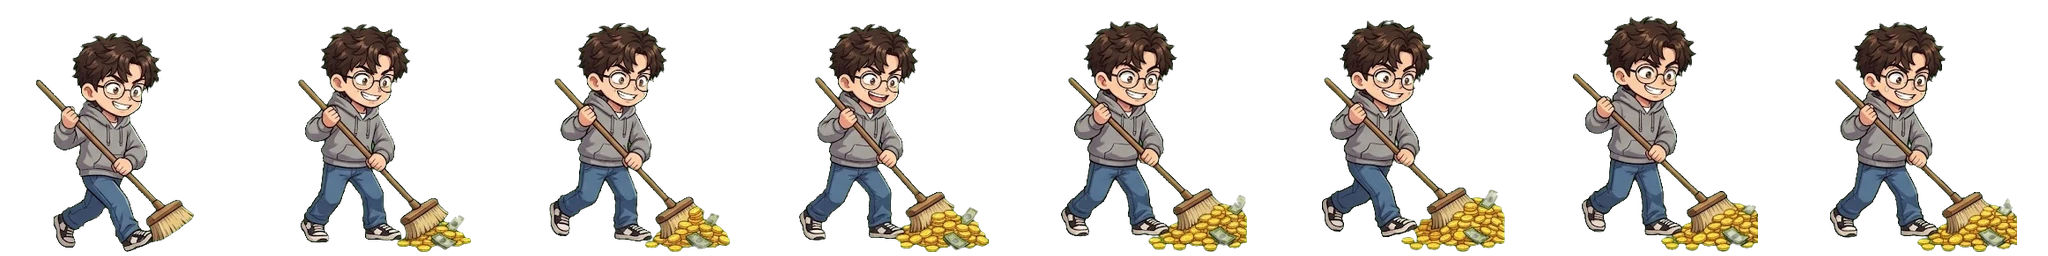
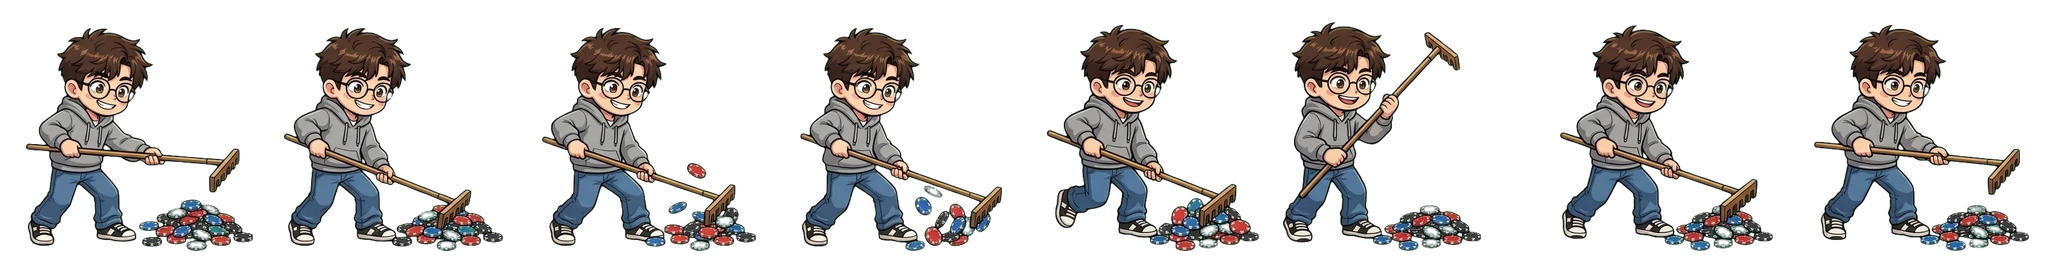
랑방대전 그림: 성준영 배팅 칩 긁어모으기 · 토하는 인간 웩 동작
- 성준영 쓸기 8칸 새로 (Gemini): 빗자루로 돈 → 갈퀴로 배팅 칩 긁어모으기
  둘레에서 굴러오는 동전·지폐 → 빨강·파랑·초록·검정 칩 · 쓸기 입자도 칩 색
  문구 돈 → 칩 (공격 설명 · 외침 · 도감 한 줄)
- 토하는 인간 e_vomit_puke.webp 8칸 새로 (Gemini): 숙이고 꿀렁 → 쏟기 → 입 닦기
  토하기 0.45초 전부터 0~2칸, 토한 뒤 3~7칸 (ENEMY_ANIM.vomit.puke · render 한 갈래)
  입에서 멤버 발밑까지 토 덩어리 포물선 · 떨어지면 철퍽
  토 웅덩이: 동그라미 하나 → 울퉁불퉁한 덩어리 · 테두리 · 번들거림 · 건더기 · 보글

diff --git a/public/langbang/render.js b/public/langbang/render.js
@@ -259,6 +259,7 @@ export class FX {
 
 // ─── 렌더러 ───────────────────────────────────────────
 const PAINTED = { crownIco: 'pCrown', bottle: 'pBottle', bottleRage: 'pBottleRage' };
+const JY_CHIPS = ['#e53935', '#1e6fe0', '#2e9e4a', '#222', '#f2b01e', '#8e44ad']; // 성준영 배팅 칩 색
 const PAINTED_MORE = ['bullet', 'cane', 'wink', 'swear', 'swearBig', 'notice', 'noticeBig', 'flower', 'rose', 'chip', 'card', 'tick', 'dumbbell', 'snack', 'hammer', 'note', 'heartBomb', 'duck', 'paper', 'gem', 'mosaic'];
 for (const n of PAINTED_MORE) PAINTED[n] = 'p_' + n; // 그린 투사체: fx/p_<이름>.webp (없으면 코드로 그린 것)
 export class Renderer {
@@ -310,7 +311,7 @@ export class Renderer {
     list.vfx_winkring = '/img/lb/fx/vfx_winkring.webp'; list.hanna_back = '/img/lb/h_hanna_back.webp'; // 이한나 데스 윙크
     list.hanim_youngjun_rest = '/img/lb/h_youngjun_rest.webp'; // 김영준 숨 고르기 (크로스핏 8칸 · 있으면)
     list.hanim_baul_ride = '/img/lb/h_baul_ride.webp'; list.hanim_baul_fix = '/img/lb/h_baul_fix.webp'; // 송바울 보드 타기 · 보드 정비 (8칸 반복)
-    list.hanim_junyoung_sweep = '/img/lb/h_junyoung_sweep.webp'; // 성준영 빗자루로 돈 쓸어 모으기 (8칸 반복)
+    list.hanim_junyoung_sweep = '/img/lb/h_junyoung_sweep.webp'; // 성준영 칩 갈퀴로 배팅 칩 긁어모으기 (8칸 반복)
     list.js_back = '/img/lb/h_jeongseob_back.webp'; list.js_walk = '/img/lb/h_jeongseob_walkfront.webp'; list.js_walkb = '/img/lb/h_jeongseob_walkback.webp'; list.js_rest = '/img/lb/h_jeongseob_rest.webp'; // 윤정섭 걷기 · 쉬기
     for (const id in HERO_ANIM_FORM) list['hanim_' + id + '_f'] = HERO_ANIM_FORM[id].src; // 변신 모습 띠
     for (const n of PROJ_ART_NAMES) list['w_' + n] = `/img/lb/fx/w_${n}.webp`; // 투사체 그림 (없으면 코드 모양)
@@ -1110,11 +1111,15 @@ export class Renderer {
     for (const q of g.puddles || []) {
       const a = Math.min(1, q.t / 0.5);
       this.tf(q.x, q.y, 0, 1, 0.35);
-      cx.globalAlpha = 0.55 * a;
-      cx.fillStyle = q.enemy ? '#b8d64a' : '#9acd32';
-      cx.beginPath(); cx.arc(0, 0, q.r, 0, TAU); cx.fill();
-      cx.globalAlpha = 0.6 * a; cx.fillStyle = '#e8ff9a';
-      for (let i = 0; i < 4; i++) { cx.beginPath(); cx.arc(Math.cos(i * 1.7 + q.x) * q.r * 0.5, Math.sin(i * 2.3) * q.r * 0.5, 4 + (i % 2) * 3, 0, TAU); cx.fill(); }
+      // 토 웅덩이: 울퉁불퉁한 덩어리 · 진한 테두리 · 번들거림 · 건더기 · 가끔 보글
+      const sd = q.x * 0.37 + q.r, grow = Math.min(1, (q.max - q.t) / 0.25 + 0.4), R0 = q.r * grow;
+      const lobes = (k) => { cx.beginPath(); cx.arc(0, 0, R0 * 0.72 * k, 0, TAU); for (let i = 0; i < 6; i++) { const an = i * 1.05 + sd, d = R0 * (0.42 + 0.14 * Math.sin(sd * 3 + i * 2.1)); cx.moveTo(Math.cos(an) * d + R0 * 0.38 * k, Math.sin(an) * d); cx.arc(Math.cos(an) * d, Math.sin(an) * d, R0 * 0.38 * k, 0, TAU); } };
+      cx.globalAlpha = 0.75 * a; cx.fillStyle = q.enemy ? '#7f9a22' : '#6f8f1c'; lobes(1.08); cx.fill();
+      cx.fillStyle = q.enemy ? '#c9d84a' : '#b5cf3a'; lobes(0.96); cx.fill();
+      cx.globalAlpha = 0.5 * a; cx.fillStyle = '#eef79a'; cx.beginPath(); cx.ellipse(-R0 * 0.2, -R0 * 0.22, R0 * 0.32, R0 * 0.14, -0.3, 0, TAU); cx.fill();
+      cx.globalAlpha = 0.8 * a; cx.fillStyle = '#e6b84a';
+      for (let i = 0; i < 5; i++) { cx.beginPath(); cx.arc(Math.cos(i * 2.4 + sd) * R0 * 0.45, Math.sin(i * 1.9 + sd) * R0 * 0.4, 2.5 + (i % 2) * 1.5, 0, TAU); cx.fill(); }
+      const bt = (t * 1.3 + sd) % 1; cx.globalAlpha = 0.7 * a * (1 - bt); cx.strokeStyle = '#f4ffb0'; cx.lineWidth = 1.5; cx.beginPath(); cx.arc(Math.cos(sd) * R0 * 0.3, Math.sin(sd * 2) * R0 * 0.3, 2 + bt * 5, 0, TAU); cx.stroke();
       cx.globalAlpha = 1;
     }
     // 찌질남: 달라붙은 멤버와 하트 끈
@@ -1695,12 +1700,24 @@ export class Renderer {
         const img = e.flash > 0 ? sp.f : g.hell || g.tower ? this.hellSprite(sp) : sp.c; // 헬 · 진상의 탑: 붉은 빛을 미리 구운 그림 (그리기 1번)
         const hid = e.def.traits && e.def.traits.stealth && !e.unveiled;
         if (hid) cx.globalAlpha = 0.22 + Math.sin(t * 5 + e.phase) * 0.06; // 은신: 흐릿하게
+        const pk = def.puke && !e.flash && key === 'e_' + e.type && ENEMY_ANIM[e.type] && ENEMY_ANIM[e.type].puke, pstrip = pk && this.images[`anim_${e.type}_puke`]; // 토하는 인간: 웩 동작 띠 (구부림 → 쏟음 → 입 닦기)
+        let pfi = -1;
+        if (pstrip && imgOk(pstrip)) {
+          const lead = pk.lead || 0.4, rel = pk.release || 3, after = (def.puke.every - e.pukeT) * (pk.fps || 10);
+          if (e.pukeT < lead && e.y > g.ropeY - def.puke.reach && g.heroes.length) pfi = Math.min(rel - 1, Math.floor((1 - e.pukeT / lead) * rel)); // 토하기 직전: 몸을 숙이고 꿀렁
+          else if (after >= 0 && after < (pk.frames || 8) - rel) pfi = rel + Math.floor(after); // 쏟은 뒤: 웩 → 입 닦기
+        }
         const aa = e.atRope && !e.flash && key === 'e_' + e.type && ENEMY_ANIM[e.type] && ENEMY_ANIM[e.type].attack; // 입구 공격 프레임 띠 (있으면)
         const astrip = aa && this.images[`anim_${e.type}_attack`];
         const an = moving && !e.flash && key === 'e_' + e.type && ENEMY_ANIM[e.type] && ENEMY_ANIM[e.type].walk; // 보스 기술·분노 그림이 뜨는 동안은 그 그림
         const strip = an && this.images[`anim_${e.type}_walk`];
         if (e.brkT > 0 && !(e.flash > 0)) cx.drawImage(this.mosaicSprite(sp), -box / 2, -box * FEET, box, box); // 여지원 「모자이크」: 몸 전체를 큰 네모로 깨뜨린 그림 (한 번 구워 두고 재사용 · 띠 대신)
-        else if (astrip && imgOk(astrip)) {
+        else if (pfi >= 0) {
+          const fh = pstrip.naturalHeight, n = pk.frames || 8, fw = pstrip.naturalWidth / n;
+          const idle = this.sprites['e_' + e.type], fit = idle && idle.c ? this.stripFit('ep_' + e.type, pstrip, n, idle.c, 1) : { k: 1, dx: 0, dy: 0 };
+          this.tf(e.x, feet, 0, 1, 1);
+          cx.drawImage(pstrip, pfi * fw, 0, fw, fh, -box / 2 + fit.dx * box, -box * FEET + fit.dy * box, box * fit.k, box * fit.k);
+        } else if (astrip && imgOk(astrip)) {
           const fh = astrip.naturalHeight, n = aa.frames || Math.max(1, Math.round(astrip.naturalWidth / fh)), fw = astrip.naturalWidth / n, rel = Math.min(n - 1, aa.release || 3);
           const fi = e.hitT > 0 ? Math.min(n - 1, rel + Math.floor((1 - e.hitT / 0.25) * (n - rel))) : e.atkCd > 0 && e.atkCd < 0.3 ? Math.floor((1 - e.atkCd / 0.3) * rel) : 0;
           const idle = this.sprites['e_' + e.type], fit = idle && idle.c ? this.stripFit('ea_' + e.type, astrip, n, idle.c, 1) : { k: 1, dx: 0, dy: 0 };
@@ -2460,7 +2477,7 @@ export class Renderer {
     for (let k = 0; k < maxUse; k++) { cx.fillStyle = k < left ? '#7ad0ff' : 'rgba(0,0,0,0.5)'; cx.fillRect(hx - tw / 2 + k * (w0 + gap), feet + 19, w0, 3); }
     return true;
   }
-  // 성준영: 빗자루로 바닥의 돈을 쓸어 모으며 돌아다닌다 — 끌어모으는 반경 고리 · 빗자루 쪽으로 미끄러져 들어오는 동전
+  // 성준영: 칩 갈퀴로 바닥의 배팅 칩을 긁어모으며 돌아다닌다 — 끌어모으는 반경 고리 · 갈퀴 쪽으로 굴러 들어오는 칩
   drawJunyoung(g, h, hx, feet, box, sp, t) {
     const cx = this.cx, im = this.images.hanim_junyoung_sweep, S0 = h.def.sweep;
     const R0 = S0.r[h.lv - 1] * (h.allinT > 0 ? S0.allinR : 1) * (g.saJy ? 1.2 : 1), gold = h.allinT > 0;
@@ -2468,18 +2485,26 @@ export class Renderer {
     cx.setLineDash([7, 7]); cx.lineDashOffset = t * 24; cx.strokeStyle = gold ? 'rgba(255,210,63,0.75)' : 'rgba(190,140,255,0.45)'; cx.lineWidth = gold ? 4 : 2.5;
     cx.beginPath(); cx.arc(0, 0, R0, 0, Math.PI * 2); cx.stroke(); cx.setLineDash([]); cx.restore();
     const face = h.face || 1, sk = this.skfx;
-    if (sk) { // 동전 · 지폐가 둘레에서 빗자루 앞으로 쓸려 들어온다
+    if (sk) { // 빨강 · 파랑 · 초록 · 검정 배팅 칩이 둘레에서 갈퀴 앞으로 쓸려 들어온다
       this.world();
       for (let k = 0; k < 6; k++) {
         const ph = (t * 0.9 + k / 6) % 1, a = k * 1.9 + Math.floor(t * 0.9 + k / 6) * 2.3, r = 46 * (1 - ph) + 8;
         const x = hx + face * 16 + Math.cos(a) * r, y = feet - 2 + Math.sin(a) * r * 0.35;
-        if (k % 3 === 2) sk.bill(x, y, t * 4 + k, a, (1 - ph) * 0.9); else sk.coin(x, y, 3.4, t * 7 + k, 0.35 + (1 - ph) * 0.65);
+        this.pokerChip(x, y, 3.6, t * 7 + k, 0.35 + (1 - ph) * 0.65, JY_CHIPS[k % JY_CHIPS.length]);
       }
     }
     if (!imgOk(im)) return false;
     const fi = Math.floor(t * 9) % 8, hop = Math.abs(Math.sin(t * 9 * Math.PI / 4)) * 1.5;
     this.loopStrip(im, fi, hx, feet - hop, face, box * 1.05);
     return true;
+  }
+  pokerChip(x, y, r, ph, a, col) { // 배팅 칩 한 개 (뒤집히며 굴러 들어온다)
+    const cx = this.cx, w = Math.abs(Math.cos(ph)) * r + 0.8;
+    cx.save(); cx.translate(x, y); cx.globalAlpha = Math.max(0, Math.min(1, a));
+    cx.fillStyle = 'rgba(0,0,0,0.45)'; cx.beginPath(); cx.ellipse(0, 1.2, w, r, 0, 0, Math.PI * 2); cx.fill();
+    cx.fillStyle = col; cx.beginPath(); cx.ellipse(0, 0, w, r, 0, 0, Math.PI * 2); cx.fill();
+    if (w > r * 0.45) { cx.strokeStyle = '#fff'; cx.lineWidth = 1.1; cx.setLineDash([1.6, 1.4]); cx.beginPath(); cx.ellipse(0, 0, w * 0.72, r * 0.72, 0, 0, Math.PI * 2); cx.stroke(); cx.setLineDash([]); cx.fillStyle = 'rgba(255,255,255,0.85)'; cx.beginPath(); cx.ellipse(0, 0, w * 0.32, r * 0.32, 0, 0, Math.PI * 2); cx.fill(); }
+    cx.restore();
   }
   // 정소영 잔소리: 말풍선이 준영에게 날아가 체력을 채운다 (game.js 'nag')
   nagFly(x0, y0, x1, y1) { (this._nag || (this._nag = [])).push({ x0, y0, x1, y1, at: performance.now() }); }

diff --git a/public/langbang/game.js b/public/langbang/game.js
@@ -704,7 +704,7 @@ function handleEvents(g, loud) {
         break;
       }
       case 'jyGrab': if (!busy && Math.random() < 0.6) R.vfx('pullLine', e.x, e.y, { anim: 'streak', dur: 380, tx: e.jx, ty: e.jy - 20, col: '#c07bff' }); break;
-      case 'jySweep': if (!busy) { fx.burst(e.x + (e.face || 1) * 18, e.y + 18, 3, '#ffd23f', 70, 'coin', 6, 0.5); if (Math.random() < 0.08) fx.text(e.x, e.y - 72, ['이거 다 내 돈!', '쓸어 담자~', '하나도 안 흘린다'][(Math.random() * 3) | 0], '#ffe27a', 11, 0.9); } break;
+      case 'jySweep': if (!busy) { for (const c of ['#e53935', '#1e6fe0', '#2e9e4a']) fx.burst(e.x + (e.face || 1) * 18, e.y + 18, 1, c, 70, 'dot', 4, 0.5); if (Math.random() < 0.08) fx.text(e.x, e.y - 72, ['이거 다 내 칩!', '칩 긁어 담자~', '한 칩도 안 흘린다'][(Math.random() * 3) | 0], '#ffe27a', 11, 0.9); } break;
       case 'boardDash': if (loud) A.sfx.whoosh(); if (!busy) fx.burst(e.x, e.y + 18, 6, 'rgba(220,240,255,0.9)', 120, 'puff', 6, 0.35); if (e.aimed && !busy) fx.ring(e.tx, e.ty, 6, 26, 0.3, '#7ad0ff', 2); if (e.left === 1) fx.text(e.x, e.y - 74, '보드가 삐걱…', '#ffd9a0', 11, 0.9); break;
       case 'boardCombo': if (!busy) fx.text(e.x, e.y - 70, `${e.n}명 쓸었다!`, '#7ad0ff', 13, 0.9); break;
       case 'boardBroke': fx.text(e.x, e.y - 74, '보드 정비하러 간다~', '#ffd9a0', 12, 1.0); fx.burst(e.x, e.y + 10, 6, '#c8ccd8', 90, 'shard', 4, 0.5); break;
@@ -1110,7 +1110,11 @@ function handleEvents(g, loud) {
       case 'lightsOn': fx.flash('#fff8d0', 0.25); break;
       case 'megaphone': fx.text(180, g.H * 0.26, '인피 확성기! 진상 가속', '#ff8a8a', 17, 1.2, -10); break;
       case 'puke':
-        if (e.cry) { fx.text(e.x, e.y, '엉엉…', '#9fd8ff', 13, 0.9, -20); break; } fx.text(e.x, e.y, '우웩!', '#b8e04a', 16, 0.9); fx.burst(e.hx, g.rowY + 18, 10, '#9acd32', 120, 'dot', 5, 0.5, 200); break;
+        if (e.cry) { fx.text(e.x, e.y, '엉엉…', '#9fd8ff', 13, 0.9, -20); break; } fx.text(e.x, e.y - 14, '우웩!', '#b8e04a', 16, 0.9); { // 입에서 멤버 발밑까지 토 덩어리가 포물선으로 날아가 철퍽
+          const T = 0.42, G = 900, ty = g.rowY + 18;
+          for (let i = 0; i < 9; i++) { const t0 = T * (0.85 + Math.random() * 0.3), dx = (Math.random() - 0.5) * 30; fx.part('dot', e.x + (Math.random() - 0.5) * 6, e.y + 8, (e.hx + dx - e.x) / t0, (ty - e.y - 8) / t0 - 0.5 * G * t0, t0, 4 + Math.random() * 4, i % 3 ? '#c9d84a' : '#9acd32', { grav: G }); }
+          setTimeout(() => { fx.burst(e.hx, ty, 12, '#c9d84a', 140, 'dot', 5, 0.5, 260); fx.burst(e.hx, ty, 6, '#e8f07a', 90, 'dot', 3, 0.4, 200); }, T * 1000);
+        } break;
       case 'cuddle': fx.text(e.x, e.y, '꽁냥꽁냥♡', '#ffb0d0', 12, 0.8); fx.part('heart', e.x, e.y, 0, -40, 0.8, 9, null); break;
       case 'breakup': fx.text(e.x, e.y, '헤어져!!', '#ff7fa8', 18, 1.1, -20); fx.burst(e.x, e.y + 20, 12, '#ff9ecb', 160, 'shard', 5, 0.6, 300); break;
       case 'grab': { fx.text(e.hx, e.hy - 70, '붙잡힘!', '#ffc08a', 15, 1); R.vfx('slap', e.hx, e.hy - 30, { anim: 'pop', dur: 380, sz: 70 }); const hh = g.heroes.find((x) => Math.abs(x.x - e.hx) < 2 && Math.abs(x.y - e.hy) < 2); if (hh) hh._hitAt = performance.now(); if (loud) A.sfx.charm(); break; }
@@ -1756,7 +1760,7 @@ function placeBubble(x, y) {
 }
 // 필드 멤버 정보 카드: 지금 능력치 · 공격 방식 · 레벨 효과 · 버프/디버프 (열려 있는 동안 게임 50% 속도)
 const PROJ_TXT = {
-  order: '콕 집는 지시 (맞은 진상 「지목」: 모두에게 더 아프게)', glow: '응원봉 부메랑 (관통 · 돌아오며 한 번 더)', board: '보드 돌진 (탭한 곳으로 · 길 위 전부 · 몇 번 타면 정비)', nag: '잔소리 (피해 없음 · 성준영 체력 · 부르기 게이지)', sweep: '빗자루질 (주변 진상 끌어모아 붙잡기 · 피해 조금)', warn: '유도탄 (감속 · 경고 누적)', bullet: '직선 저격 (자기 줄만)', heart: '포물선 폭탄 (떨어진 곳 범위)', swear: '연쇄 번개 (3~5명 튕김)',
+  order: '콕 집는 지시 (맞은 진상 「지목」: 모두에게 더 아프게)', glow: '응원봉 부메랑 (관통 · 돌아오며 한 번 더)', board: '보드 돌진 (탭한 곳으로 · 길 위 전부 · 몇 번 타면 정비)', nag: '잔소리 (피해 없음 · 성준영 체력 · 부르기 게이지)', sweep: '칩 긁어모으기 (주변 진상 끌어모아 붙잡기 · 피해 조금)', warn: '유도탄 (감속 · 경고 누적)', bullet: '직선 저격 (자기 줄만)', heart: '포물선 폭탄 (떨어진 곳 범위)', swear: '연쇄 번개 (3~5명 튕김)',
   wave: '둥근 음파 (주변 전부 · 맞은 진상은 입구를 덜 세게)', dumbbell: '포물선 덤벨 (범위) + 오토바이 돌진', snack: '유도 과자 + 한 줄 빔', dash: '뛰어들어 연속 베기', bottle: '포물선 소주병 (범위 · 분노 중 불바다)',
   beam: '레이저 (계속 쏘면 세짐)', cane: '관통 지팡이 (자기 줄 전부)', gf: '핀볼 여사친 (3~4명 튕김 · 밀어내기)', slam: '몸통 박치기 충격파 / 날씬 모드 연타', hammer: '무거운 유도 망치 (보스 우선)', crown: '황금 파동 (자기 줄 전부 관통)',
 };

diff --git a/public/langbang/data.js b/public/langbang/data.js
@@ -1040,10 +1040,10 @@ export const SUMMONS = {
     dmg: 30, interval: 0.55, range: 380, proj: 'sweep',
     sweep: { hp: [0.32, 0.32, 0.38, 0.38, 0.45], hpMeta: 0.02, r: [110, 110, 120, 120, 135], hold: 40, pull: 110, bossPull: 0.25, max: [6, 6, 7, 7, 8], tick: 0.5, dmgK: 0.18, walk: 58, cut: 0.2, wp: [1.4, 2.6], allinR: 1.5 }, // 체력 = 입구 최대 내구도의 % · 끌어모으는 반경 · 붙잡는 최대 수 · 0.5초마다 붙잡은 진상에게 조금씩 (한 방의 18%) · 받는 피해 −40%
     allin: { r: 90, mul: 5 }, // 지쳐서 퇴근할 때 "올인!" 작은 폭발 (피해 = 한 방 × 5)
-    attack: '빗자루질 — 바닥의 돈을 쓸어 담듯 아래에서부터 이리저리 돌아다니며 주변 진상을 자기 쪽으로 끌어모은다 (피해는 아주 조금). 붙잡힌 진상은 입구 대신 준영을 때린다',
+    attack: '칩 긁어모으기 — 바닥의 배팅 칩을 갈퀴로 긁어 담듯 아래에서부터 이리저리 돌아다니며 주변 진상을 자기 쪽으로 끌어모은다 (피해는 아주 조금). 붙잡힌 진상은 입구 대신 준영을 때린다',
     desc: '비실비실해 보이지만 돈 냄새는 귀신같이 맡는다. 소영 잔소리에 떠밀려 나와 바닥의 돈을 쓸어 담고, 지치면 "올인!" 하고 퇴근한다.',
     perks: { 3: '-', 5: '-' },
-    shouts: ['올인!', '이거 다 내 돈!', '쓸어 담자~', '아 왜 또 불러…'],
+    shouts: ['올인!', '이거 다 내 칩!', '칩 긁어 담자~', '아 왜 또 불러…'],
   },
 };
 // ─── 멤버 등급(티어): 늦게 만나는 멤버일수록 기본이 세다 · 초반 멤버는 강화 한도가 낮다 ───
@@ -1584,6 +1584,7 @@ export const ENEMY_ANIM = {
   boss_inpi: { walk: { src: '/img/lb/e_boss_inpi_walk.webp', frames: 12, fps: 9 }, die: { src: '/img/lb/e_boss_inpi_die.webp', frames: 8, fps: 12, hold: 0.3 } },
   boss_queenmom: { walk: { src: '/img/lb/e_boss_queenmom_walk.webp', frames: 12, fps: 9 }, die: { src: '/img/lb/e_boss_queenmom_die.webp', frames: 8, fps: 12, hold: 0.3 } },
   boss_sales: { walk: { src: '/img/lb/e_boss_sales_walk.webp', frames: 12, fps: 9 }, die: { src: '/img/lb/e_boss_sales_die.webp', frames: 8, fps: 12, hold: 0.3 } },
+  vomit: { puke: { src: '/img/lb/e_vomit_puke.webp', frames: 8, release: 3, lead: 0.45, fps: 9 } }, // 토하는 인간 "우웩!": 0~2 숙이고 꿀렁(토 직전) · 3~5 쏟기 · 6~7 입 닦기
 };
 // 입구 공격 동작 (진상마다 컨셉대로): 준비(뒤로 젖힘) → 때림(입구 쪽으로 · 불꽃) → 반동
 //   punch 주먹 · kick 발차기 · headbutt 박치기 · shove 밀치기 · phone 폰 내리치기 · bottle 병 내리치기 · bag 가방 휘두르기 · slap 따귀

diff --git a/public/langbang/flavor.js b/public/langbang/flavor.js
@@ -27,7 +27,7 @@ export const FLAVOR = {
   byunghwa: '무대 위에선 누구보다 빛나는 연기파. 한 번 외치면 골목 전체가 관객석이 된다. "컷! 다시 가자!"',
   jeongseob: '키 210의 차분한 거인. 말없이 걸어가 진상들을 한 명씩 밖으로 모셔 간다. 다 모셔 가면 앉아서 조금 쉰다.',
   wonsik: '결혼을 꿈꾸는 마흔셋. 유일한 취미는 헬스. 따뜻한 마음으로 모두를 지켜 준다.',
-  junyoung: '소영 잔소리에 떠밀려 나온 빗자루 장인. 바닥의 돈을 쓸어 담다 보면 진상들까지 줄줄이 딸려 온다.',
+  junyoung: '소영 잔소리에 떠밀려 나온 칩 갈퀴 장인. 바닥의 배팅 칩을 긁어 담다 보면 진상들까지 줄줄이 딸려 온다.',
   // ── 진상 ──
   yeokko: '"혹시 혼자 왔어요?" 모든 테이블에 같은 질문을 돌리는 꼬시기 전문가.',
   namkko: '"오빠 차 있어~" 차 키는 늘 흔드는데, 정작 차는 아무도 본 적이 없다.',
